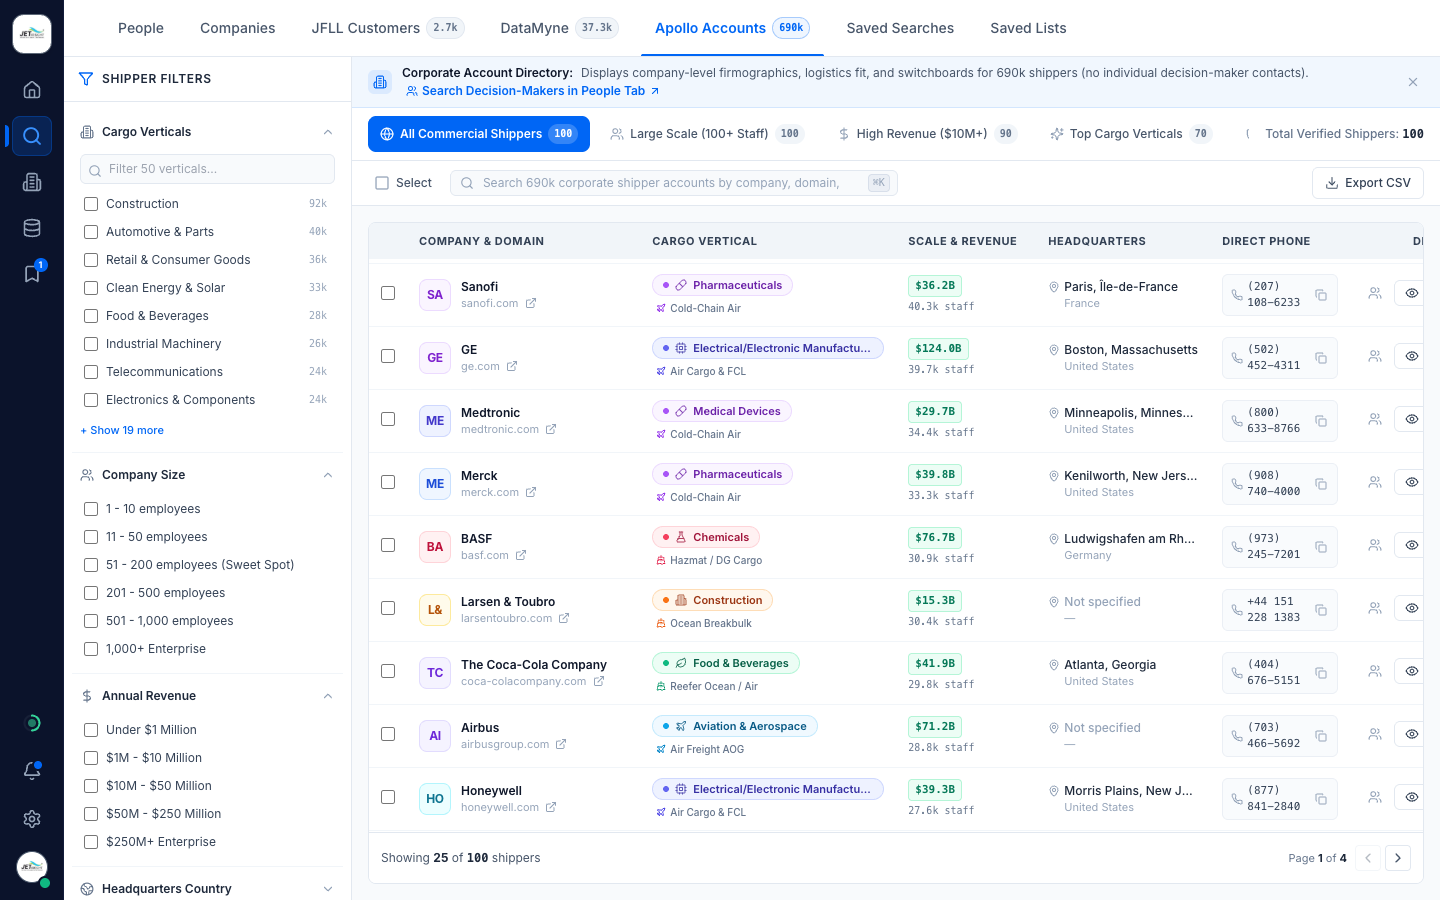
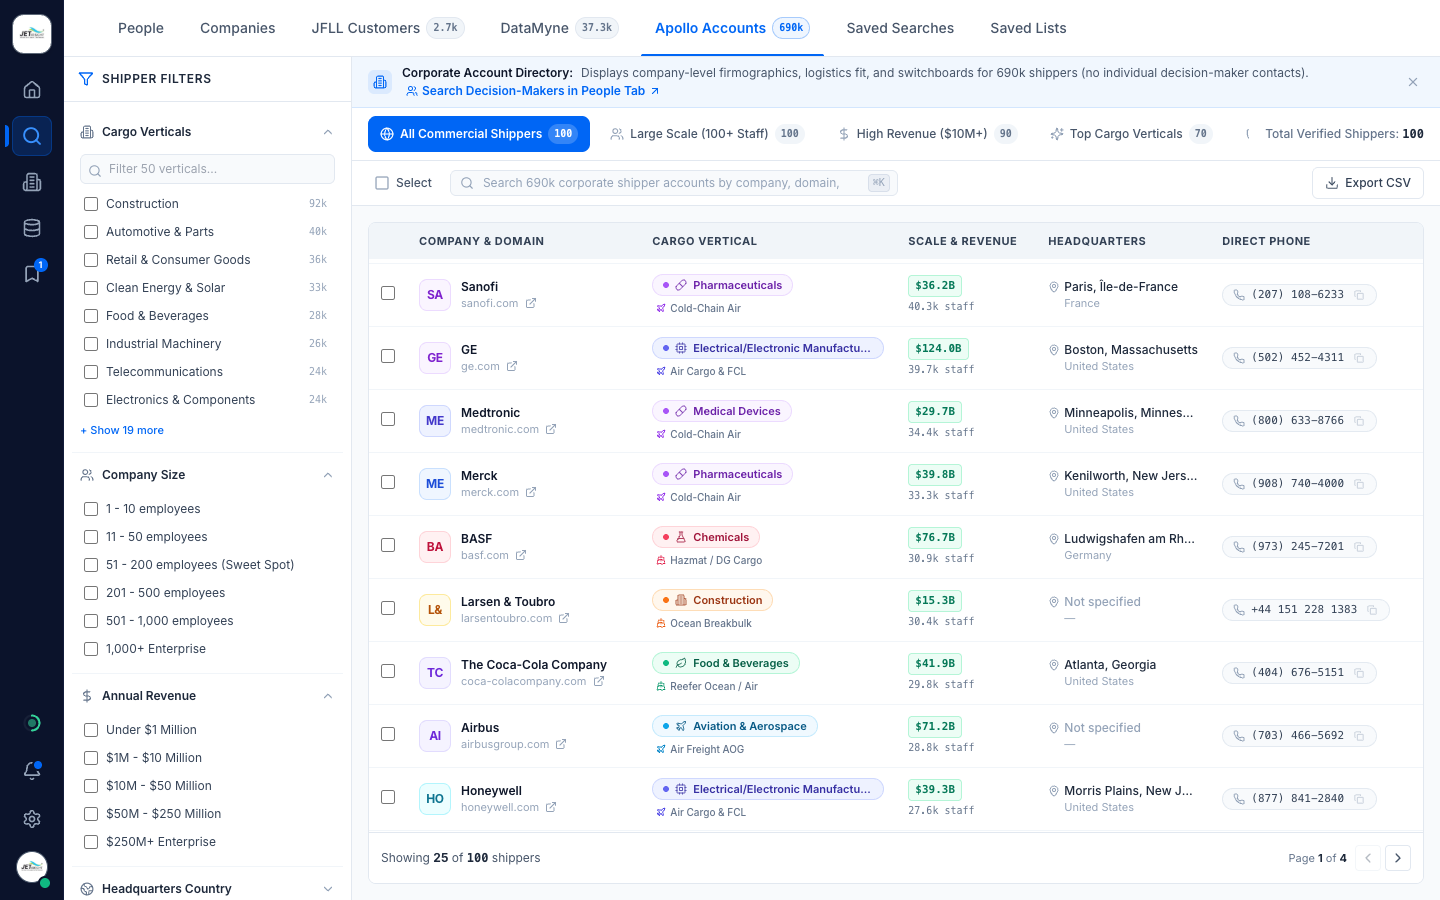
fix(apollo): style direct phone as true capsule pill chip with whitespace-nowrap

diff --git a/Frontend/src/components/apollo/ApolloTable.tsx b/Frontend/src/components/apollo/ApolloTable.tsx
@@ -191,7 +191,7 @@ export const ApolloTable: React.FC<ApolloTableProps> = ({
               <th className="py-2.5 px-3 min-w-[180px] bg-slate-100 sticky top-0 z-20">Cargo Vertical</th>
               <th className="py-2.5 px-3 min-w-[140px] bg-slate-100 sticky top-0 z-20">Scale & Revenue</th>
               <th className="py-2.5 px-3 min-w-[150px] bg-slate-100 sticky top-0 z-20">Headquarters</th>
-              <th className="py-2.5 px-3 min-w-[140px] bg-slate-100 sticky top-0 z-20">Direct Phone</th>
+              <th className="py-2.5 px-3 min-w-[175px] bg-slate-100 sticky top-0 z-20">Direct Phone</th>
               <th className="py-2.5 px-3 w-28 text-right bg-slate-100 sticky top-0 z-20">Details</th>
             </tr>
           </thead>
@@ -299,24 +299,35 @@ export const ApolloTable: React.FC<ApolloTableProps> = ({
                     </div>
                   </td>
 
-                  {/* Direct Phone Number with One-Click Copy */}
-                  <td className="py-2.5 px-3">
-                    <div className="inline-flex items-center space-x-1 text-slate-700 bg-slate-50/80 border border-slate-200/60 px-2 py-1 rounded-md">
-                      <Phone className="w-3 h-3 text-slate-400 shrink-0" />
-                      <span className="font-mono text-[11px] select-text">{lead.phone}</span>
-                      <button
-                        onClick={(e) => handleCopyPhone(e, lead.phone, lead.organization_id)}
-                        className="p-0.5 text-slate-400 hover:text-apollo rounded hover:bg-white transition-colors ml-0.5"
-                        title="Copy phone number"
-                        aria-label="Copy phone number"
-                      >
-                        {isPhoneCopied ? (
-                          <Check className="w-3 h-3 text-green-600" />
-                        ) : (
-                          <Copy className="w-3 h-3" />
-                        )}
-                      </button>
-                    </div>
+                  {/* Direct Phone Number - True Capsule Pill Chip */}
+                  <td className="py-2.5 px-3 whitespace-nowrap">
+                    {lead.phone && lead.phone !== '—' && lead.phone.toLowerCase() !== 'not specified' ? (
+                      <div className="inline-flex items-center gap-1.5 px-2.5 py-0.5 rounded-full bg-slate-50 hover:bg-slate-100/80 border border-slate-200/90 hover:border-slate-300 text-slate-700 hover:text-apollo text-[11px] font-mono whitespace-nowrap shadow-2xs transition-all group/phone">
+                        <Phone className="w-3 h-3 text-slate-400 group-hover/phone:text-apollo shrink-0 transition-colors" />
+                        <a
+                          href={`tel:${lead.phone.replace(/[^0-9+]/g, '')}`}
+                          onClick={(e) => e.stopPropagation()}
+                          className="hover:underline font-medium select-text"
+                          title={`Call ${lead.phone}`}
+                        >
+                          {lead.phone}
+                        </a>
+                        <button
+                          onClick={(e) => handleCopyPhone(e, lead.phone, lead.organization_id)}
+                          className="p-0.5 text-slate-400 hover:text-apollo rounded-full hover:bg-white transition-colors shrink-0 ml-0.5 cursor-pointer"
+                          title="Copy phone number"
+                          aria-label="Copy phone number"
+                        >
+                          {isPhoneCopied ? (
+                            <Check className="w-3 h-3 text-emerald-600" />
+                          ) : (
+                            <Copy className="w-2.5 h-2.5 opacity-60 group-hover/phone:opacity-100 transition-opacity" />
+                          )}
+                        </button>
+                      </div>
+                    ) : (
+                      <span className="text-slate-400 italic text-[11px] pl-1">—</span>
+                    )}
                   </td>
 
                   {/* Actions: View Details & Find Decision-Makers Buttons */}
